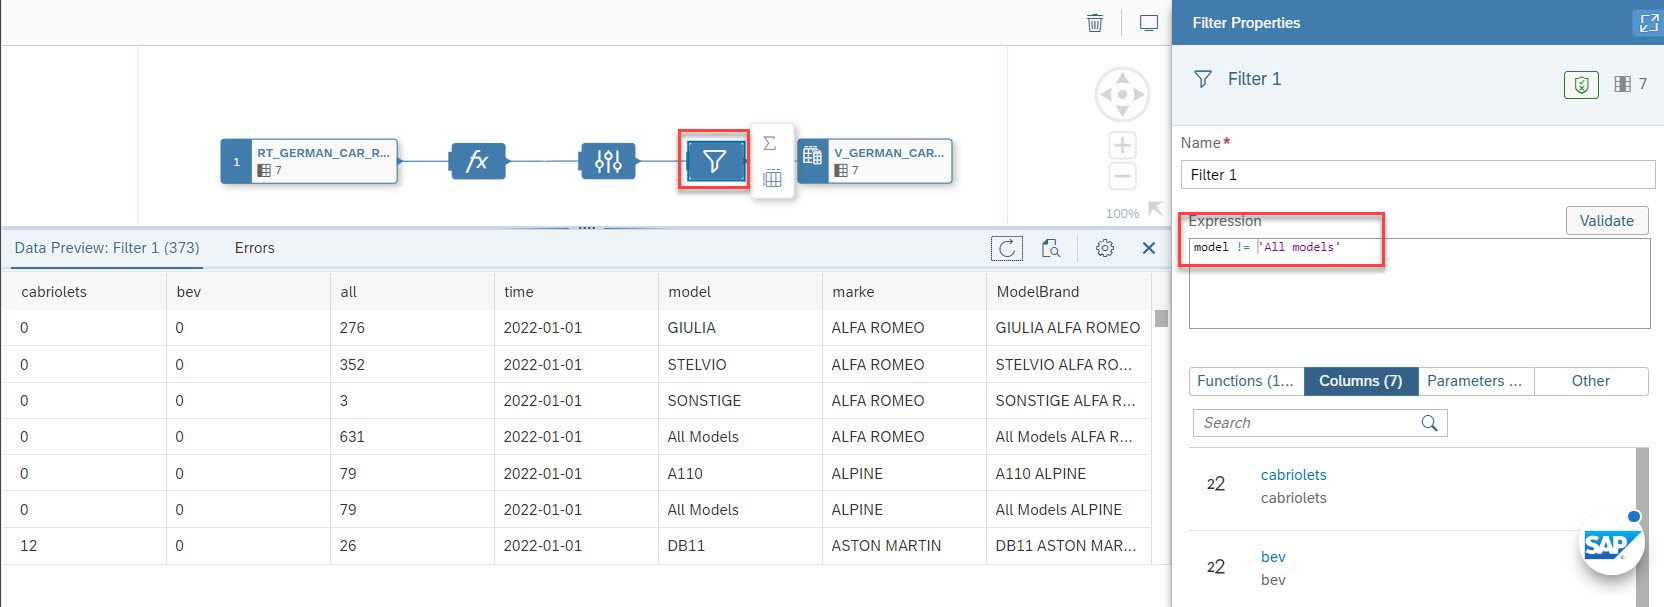
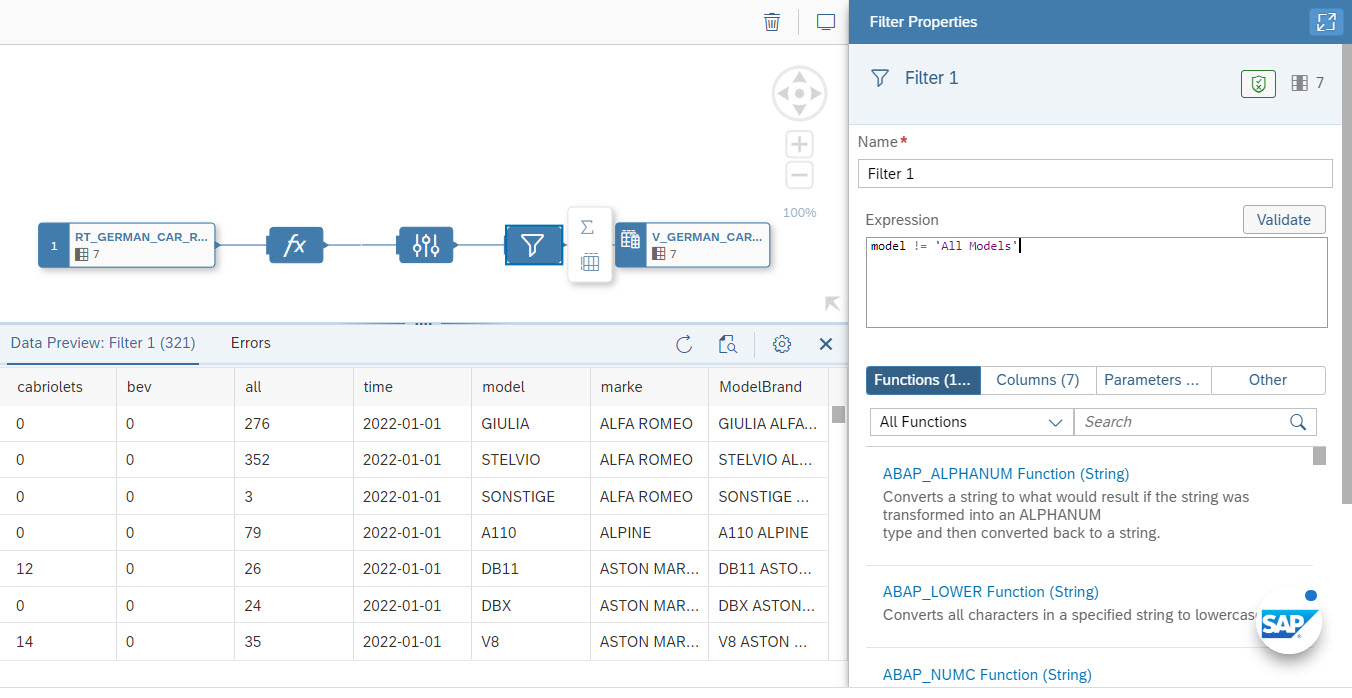
wrong filter

diff --git a/exercises/ex2/README.md b/exercises/ex2/README.md
@@ -50,7 +50,7 @@ Since Intelligent Lookup requires key columns in the participating entities, let
 We create a new filter node by choosing the filter icon on the context pad of the projection node
 <br> ![create filter node](images/view_create_filter_node.jpg)
 
-12. In the properties panel of the filter node, we set the filter expression to <code>model != 'All models'</code>  
+12. In the properties panel of the filter node, we set the filter expression to <code>model != 'All Models'</code>  
 Check the data preview panel that these records are indeed filtered out
 <br> ![Filter node settings](images/filter_node_props.jpg)
 
